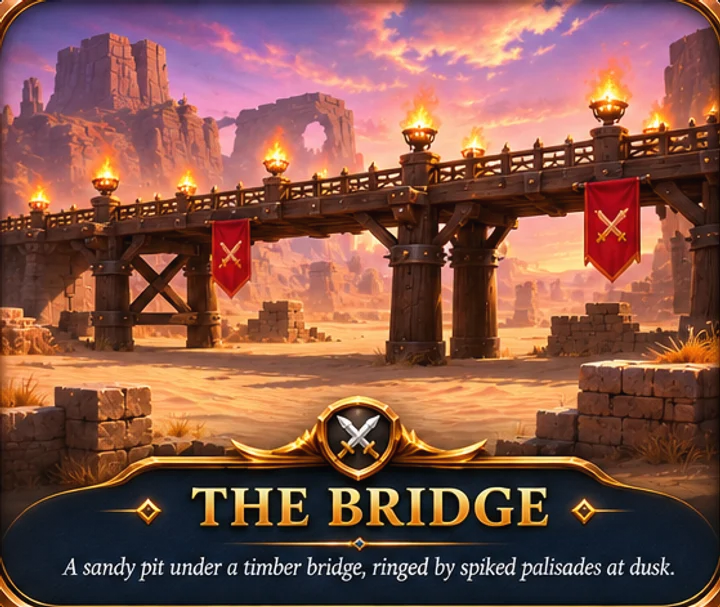
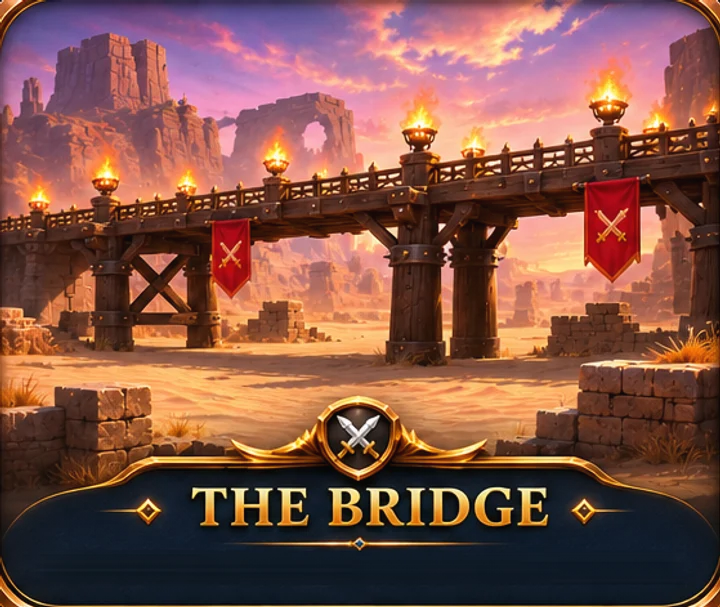
Lobby : descriptions d'arène courtes, écrites par le jeu sur la carte peinte

Changed region(s): [[0.0917, 0.9193, 0.9472, 0.9786]]

diff --git a/index.html b/index.html
@@ -99,10 +99,10 @@ body.mobile-mode #playBtn{font-size:14px!important;padding:9px 14px!important}
 @media(max-width:700px) and (orientation:portrait){body.mobile-mode #mobileOrientation{display:flex}body.mobile-mode #mobileControls{visibility:hidden}}
 @media(max-width:820px){.races{grid-template-columns:repeat(3,1fr)}.pickerLayout{grid-template-columns:1fr}.previewPane{position:relative;top:auto}.previewPane .pvArt{height:260px}#app{grid-template-rows:52px 1fr 110px}#bottom{grid-template-columns:1fr;grid-template-rows:auto auto;padding:6px}.sideBottom{display:none}#skills{gap:4px}.skill{width:64px;height:64px;font-size:7px}.skill .icon{width:34px;height:34px}.classes{grid-template-columns:1fr 1fr}.features{grid-template-columns:1fr 1fr}#selfFrame,#targetFrame,#arenaFrames{width:180px;font-size:10px}#arenaFrames{top:105px}#help{display:none}}
 </style>
-<link rel="stylesheet" href="src/ui/theme.css?v=202611012234">
-<link rel="stylesheet" href="src/ui/lobby.css?v=202611012234">
-<link rel="stylesheet" href="src/ui/hud.css?v=202611012234">
-<link rel="stylesheet" href="src/ui/results.css?v=202611012234">
+<link rel="stylesheet" href="src/ui/theme.css?v=202611012236">
+<link rel="stylesheet" href="src/ui/lobby.css?v=202611012236">
+<link rel="stylesheet" href="src/ui/hud.css?v=202611012236">
+<link rel="stylesheet" href="src/ui/results.css?v=202611012236">
 </head>
 <body>
 <div id="app">
@@ -147,43 +147,43 @@ body.mobile-mode #playBtn{font-size:14px!important;padding:9px 14px!important}
 </main>
 <footer id="bottom"><div id="status" class="sideBottom"></div><div id="center"><div id="round">Round 1 / 3</div><div id="timer">02:30</div><div id="score">0 - 0</div></div><div id="skills"></div></footer>
 </div>
-<script src="game_logic.js?v=202611012234"></script>
+<script src="game_logic.js?v=202611012236"></script>
 <!-- High-fidelity character renderer. The game remains playable with the built-in fallback if these fail to load. -->
 <script src="https://cdn.jsdelivr.net/npm/three@0.128.0/build/three.min.js" crossorigin="anonymous"></script>
 <script src="https://cdn.jsdelivr.net/npm/three@0.128.0/examples/js/loaders/GLTFLoader.js" crossorigin="anonymous"></script>
 <!-- Personnages CC0 assemblés (assets emballés en .js dans assets/characters/ : fonctionne en double-clic). -->
-<script>window.ASSET_V="202611012234"</script>
-<script src="src/characters/kits.js?v=202611012234"></script>
-<script src="src/characters/builder.js?v=202611012234"></script>
-<script src="src/render/environment.js?v=202611012234"></script>
-<script src="src/render/map_bridge.js?v=202611012234"></script>
-<script src="src/render/effects.js?v=202611012234"></script>
-<script src="assets/ui/map_thumbs.js?v=202611012234"></script>
-<script src="assets/ui/pick_icons.js?v=202611012234"></script>
-<script src="src/core/perf.js?v=202611012234"></script>
-<script src="src/core/setup.js?v=202611012234"></script>
-<script src="src/render/heroes3d.js?v=202611012234"></script>
-<script src="src/data/classes.js?v=202611012234"></script>
-<script src="src/core/webgl.js?v=202611012234"></script>
-<script src="src/data/maps.js?v=202611012234"></script>
-<script src="src/game/combat.js?v=202611012234"></script>
-<script src="src/game/ai.js?v=202611012234"></script>
-<script src="src/game/rules.js?v=202611012234"></script>
-<script src="src/ui/skillbar.js?v=202611012234"></script>
-<script src="src/game/match.js?v=202611012234"></script>
-<script src="src/game/sim.js?v=202611012234"></script>
-<script src="src/render/world.js?v=202611012234"></script>
-<script src="src/ui/hud.js?v=202611012234"></script>
-<script src="src/ui/results.js?v=202611012234"></script>
-<script src="src/audio/music.js?v=202611012234"></script>
-<script src="src/audio/tracks.js?v=202611012234"></script>
-<script src="src/audio/sfx.js?v=202611012234"></script>
-<script src="src/ui/settings.js?v=202611012234"></script>
-<script src="src/ui/lobby.js?v=202611012234"></script>
-<script src="src/ui/mobile.js?v=202611012234"></script>
-<script src="src/input/controls.js?v=202611012234"></script>
-<script src="src/ui/cursor.js?v=202611012234"></script>
-<script src="src/net/online.js?v=202611012234"></script>
-<script src="src/core/main.js?v=202611012234"></script>
+<script>window.ASSET_V="202611012236"</script>
+<script src="src/characters/kits.js?v=202611012236"></script>
+<script src="src/characters/builder.js?v=202611012236"></script>
+<script src="src/render/environment.js?v=202611012236"></script>
+<script src="src/render/map_bridge.js?v=202611012236"></script>
+<script src="src/render/effects.js?v=202611012236"></script>
+<script src="assets/ui/map_thumbs.js?v=202611012236"></script>
+<script src="assets/ui/pick_icons.js?v=202611012236"></script>
+<script src="src/core/perf.js?v=202611012236"></script>
+<script src="src/core/setup.js?v=202611012236"></script>
+<script src="src/render/heroes3d.js?v=202611012236"></script>
+<script src="src/data/classes.js?v=202611012236"></script>
+<script src="src/core/webgl.js?v=202611012236"></script>
+<script src="src/data/maps.js?v=202611012236"></script>
+<script src="src/game/combat.js?v=202611012236"></script>
+<script src="src/game/ai.js?v=202611012236"></script>
+<script src="src/game/rules.js?v=202611012236"></script>
+<script src="src/ui/skillbar.js?v=202611012236"></script>
+<script src="src/game/match.js?v=202611012236"></script>
+<script src="src/game/sim.js?v=202611012236"></script>
+<script src="src/render/world.js?v=202611012236"></script>
+<script src="src/ui/hud.js?v=202611012236"></script>
+<script src="src/ui/results.js?v=202611012236"></script>
+<script src="src/audio/music.js?v=202611012236"></script>
+<script src="src/audio/tracks.js?v=202611012236"></script>
+<script src="src/audio/sfx.js?v=202611012236"></script>
+<script src="src/ui/settings.js?v=202611012236"></script>
+<script src="src/ui/lobby.js?v=202611012236"></script>
+<script src="src/ui/mobile.js?v=202611012236"></script>
+<script src="src/input/controls.js?v=202611012236"></script>
+<script src="src/ui/cursor.js?v=202611012236"></script>
+<script src="src/net/online.js?v=202611012236"></script>
+<script src="src/core/main.js?v=202611012236"></script>
 </body>
 </html>

diff --git a/tools/build_lobby2_assets.js b/tools/build_lobby2_assets.js
@@ -54,8 +54,26 @@ const TAGS = {
   await save(crop('maps_lobby_assets.png', 56, 42, 540, 292).resize(640), 'map_castle', 84);
   await save(crop('maps_lobby_assets.png', 667, 38, 550, 300).resize(640), 'map_bridge', 84);
   // cartes d'arène complètes (illustration + blason + nom + description peints), sans le cadre de la planche
-  await save(crop('maps_lobby_assets.png', 47, 33, 569, 471).resize(720), 'mapcard_castle', 86);
-  await save(crop('maps_lobby_assets.png', 662, 33, 559, 471).resize(720), 'mapcard_bridge', 86);
+  // la description peinte (rangées 427-453) est effacée : le jeu écrit une phrase courte à sa place
+  const noDesc = async (x, y, w, h) => {
+    const { data, info } = await crop('maps_lobby_assets.png', x, y, w, h)
+      .ensureAlpha()
+      .raw()
+      .toBuffer({ resolveWithObject: true });
+    const x0 = 30,
+      x1 = info.width - 30;
+    for (let r = 427; r < 454; r++)
+      for (let c = x0; c < x1; c++) {
+        const t = (c - x0) / (x1 - x0),
+          a = (r * info.width + x0 - 1) * 4,
+          b = (r * info.width + x1) * 4,
+          o = (r * info.width + c) * 4;
+        for (let k = 0; k < 3; k++) data[o + k] = data[a + k] * (1 - t) + data[b + k] * t;
+      }
+    return sharp(data, { raw: { width: info.width, height: info.height, channels: 4 } });
+  };
+  await save((await noDesc(47, 33, 569, 471)).resize(720), 'mapcard_castle', 86);
+  await save((await noDesc(662, 33, 559, 471)).resize(720), 'mapcard_bridge', 86);
   // cartes de race et de classe (illustration + nom peint), recadrées à l'intérieur de leur cadre doré
   const CARDS = {
     race_human: [717, 561, 98, 80],

diff --git a/src/ui/lobby.css b/src/ui/lobby.css
@@ -651,8 +651,34 @@ body.lobby:not(.mobile-mode) .pickRight {
 #overlay .mapCard.painted img {
   object-position: 50% 100%;
 }
+/* carte peinte : le nom est dans l'image, la description courte est écrite par le jeu à la place de la phrase
+   peinte (effacée), à la même hauteur : position en % de la largeur (cqw), l'image étant calée en bas */
+#overlay .mapCard.painted {
+  container-type: inline-size;
+}
 #overlay .mapCard.painted .mapLabel {
+  top: auto;
+  bottom: 4.2cqw;
+  padding: 0 6%;
+  background: none;
+  text-align: center;
+  z-index: 1;
+}
+#overlay .mapCard.painted .mapLabel b {
   display: none;
+}
+#overlay .mapCard.painted .mapLabel span {
+  display: block;
+  font-family: Georgia, 'Times New Roman', serif;
+  font-style: italic;
+  font-size: 3.3cqw;
+  line-height: 1.2;
+  white-space: nowrap;
+  overflow: hidden;
+  text-overflow: ellipsis;
+  opacity: 1;
+  color: #f3ead2;
+  text-shadow: 0 1px 2px #000;
 }
 #overlay .mapCard::before {
   content: '';

diff --git a/src/data/maps.js b/src/data/maps.js
@@ -5,7 +5,7 @@
 const MAPS = {
   castle: {
     name: 'The Castle',
-    desc: 'Moonlit ruins, rune pillars and a castle on the horizon.',
+    desc: 'Moonlit ruins and rune pillars.',
     halfX: 34,
     halfZ: 25,
     pillars: [
@@ -25,7 +25,7 @@ const MAPS = {
   },
   bridge: {
     name: 'The Bridge',
-    desc: 'A sandy pit under a timber bridge, ringed by spiked palisades at dusk.',
+    desc: 'A sandy pit under a timber bridge.',
     halfX: 32,
     halfZ: 22,
     // blocs de roche sous le pont, poteaux du pont, rochers latéraux

diff --git a/tests/spec.test.js b/tests/spec.test.js
@@ -385,4 +385,5 @@ assert.ok(
     read('src/ui/results.css').includes('top: calc((var(--scy) - 14) * var(--u));'),
   'score centré sur la plaque (victoire et défaite)'
 );
+for (const m of Object.values(ctx.MAPS)) assert.ok(m.desc.length <= 40, 'description d’arène courte : ' + m.name);
 console.log('OK - spécifications validées (docs/SPEC.md)');

diff --git a/docs/SPEC.md b/docs/SPEC.md
@@ -57,7 +57,7 @@ Ajouter une ligne ici (et un test si c'est vérifiable à bas coût) à chaque n
 - Clic de souris (`assets/audio/click.wav`, son de l'utilisateur recadré : son mp3 commençait par 0,56 s de silence, le clic arrive maintenant à l'instant de l'appui) sur les options d'interface : boutons et cartes du lobby, réglages, résultats, boutons du haut ; jamais sur la barre de sorts ni les commandes mobiles (`uiClickSound` dans `tracks.js`). 🧪
 - Lobby (première arrivée ou après avoir quitté une partie) : la classe choisie affiche sa barre de sorts en bas, comme en jeu ; survol = infobulle du sort (`lobbySkillBar` dans `settings.js`). 🧪
 - Lobby, 2e design de l'utilisateur (maquette `assets_src/ui/lobby_interface.png`, planches `lobby_assets.png` et `maps_lobby_assets.png` → `node tools/build_lobby2_assets.js` → `assets/ui/lobby2/`) : titre « ARENA ASCENDANT » doré centré entre deux ornements, sous-titre ; ligne **Mode | Difficulty** sous le titre ; étiquettes de section de la panoplie (Mode, Difficulty, Arena, Race, Class, Preview) ; arènes **illustrées** (images de l'utilisateur, nom et description écrits par le jeu, losange au bas de la carte choisie ; le zoom au survol ne dépasse jamais le cadre doré) ; boutons bleu nuit cerclés d'or, choix en or lumineux ; sous l'aperçu, récapitulatif race / classe / mode / difficulté / arène, puis le grand bouton **PLAY** (grisé tant que rien n'est choisi). Tout tient en 1366×768. 🧪
-- Lobby (3e retouche) : cartes de race et de classe = cartes de la panoplie de l'utilisateur (illustration + nom peint) qui **remplissent tout le bouton** (plus de bande coupée en haut) ; arènes = cartes peintes (bandeau à blason, NOM en capitales, description en italique), losange doré en haut de chaque carte et en bas de la carte choisie ; le zoom au survol reste dans le cadre (`.mapArt`). 🧪
+- Lobby (3e retouche) : cartes de race et de classe = cartes de la panoplie de l'utilisateur (illustration + nom peint) qui **remplissent tout le bouton** (plus de bande coupée en haut) ; arènes = cartes peintes (bandeau à blason, NOM en capitales) avec une **description courte** écrite par le jeu (« Moonlit ruins and rune pillars. », « A sandy pit under a timber bridge. »), toujours entière, losange doré en haut de chaque carte et en bas de la carte choisie ; le zoom au survol reste dans le cadre (`.mapArt`). 🧪
 - Le joueur ne choisit pas la musique : lobby = `assets/audio/lobby.mp3`, jeu = `assets/audio/game.mp3`.
 - Icônes de sorts **dessinées par l'utilisateur** (planche `assets_src/ui/spells_all.png` → `node tools/build_spell_icons.js` → `assets/ui/spells/`, liste `SPELL_ART` dans `classes.js`) pour **tous** les sorts et le trinket : elles remplacent entièrement l'ancienne icône ; l'illustration (sans le cadre de la planche) remplit **tout le bouton**, même non carré (pas de bandes sur les côtés), la bordure reste celle du jeu. 🧪
 - Icônes de sorts : l'illustration remplit tout le carré, le nom en bas par-dessus ; GCD et recharges affichés par un balayage circulaire ; retour visuel à l'appui.
